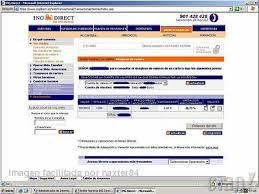
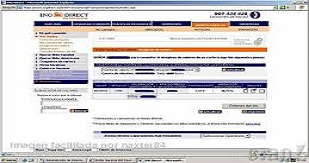
automatica por batch

diff --git a/app/assets/stylesheets/welcome.scss b/app/assets/stylesheets/welcome.scss
@@ -1,3 +1,8 @@
 // Place all the styles related to the welcome controller here.
 // They will automatically be included in application.css.
 // You can use Sass (SCSS) here: http://sass-lang.com/
+.btn-ing {
+  color: #fff;
+  background-color: #c04700;
+  border-color: #c04700;
+}
